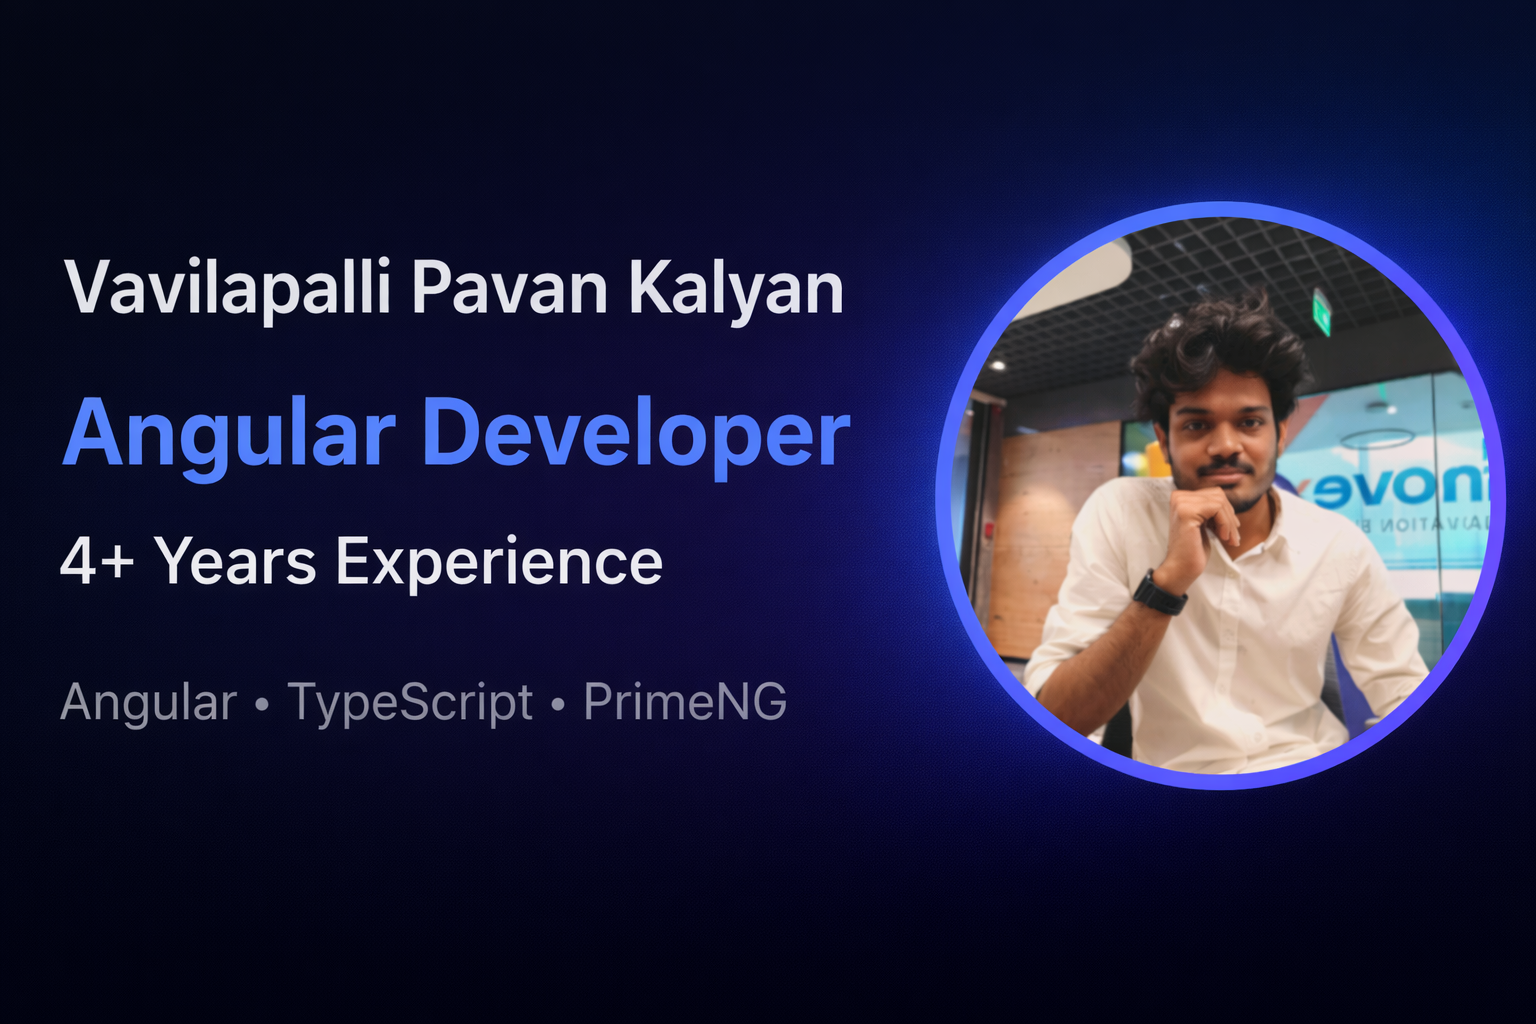
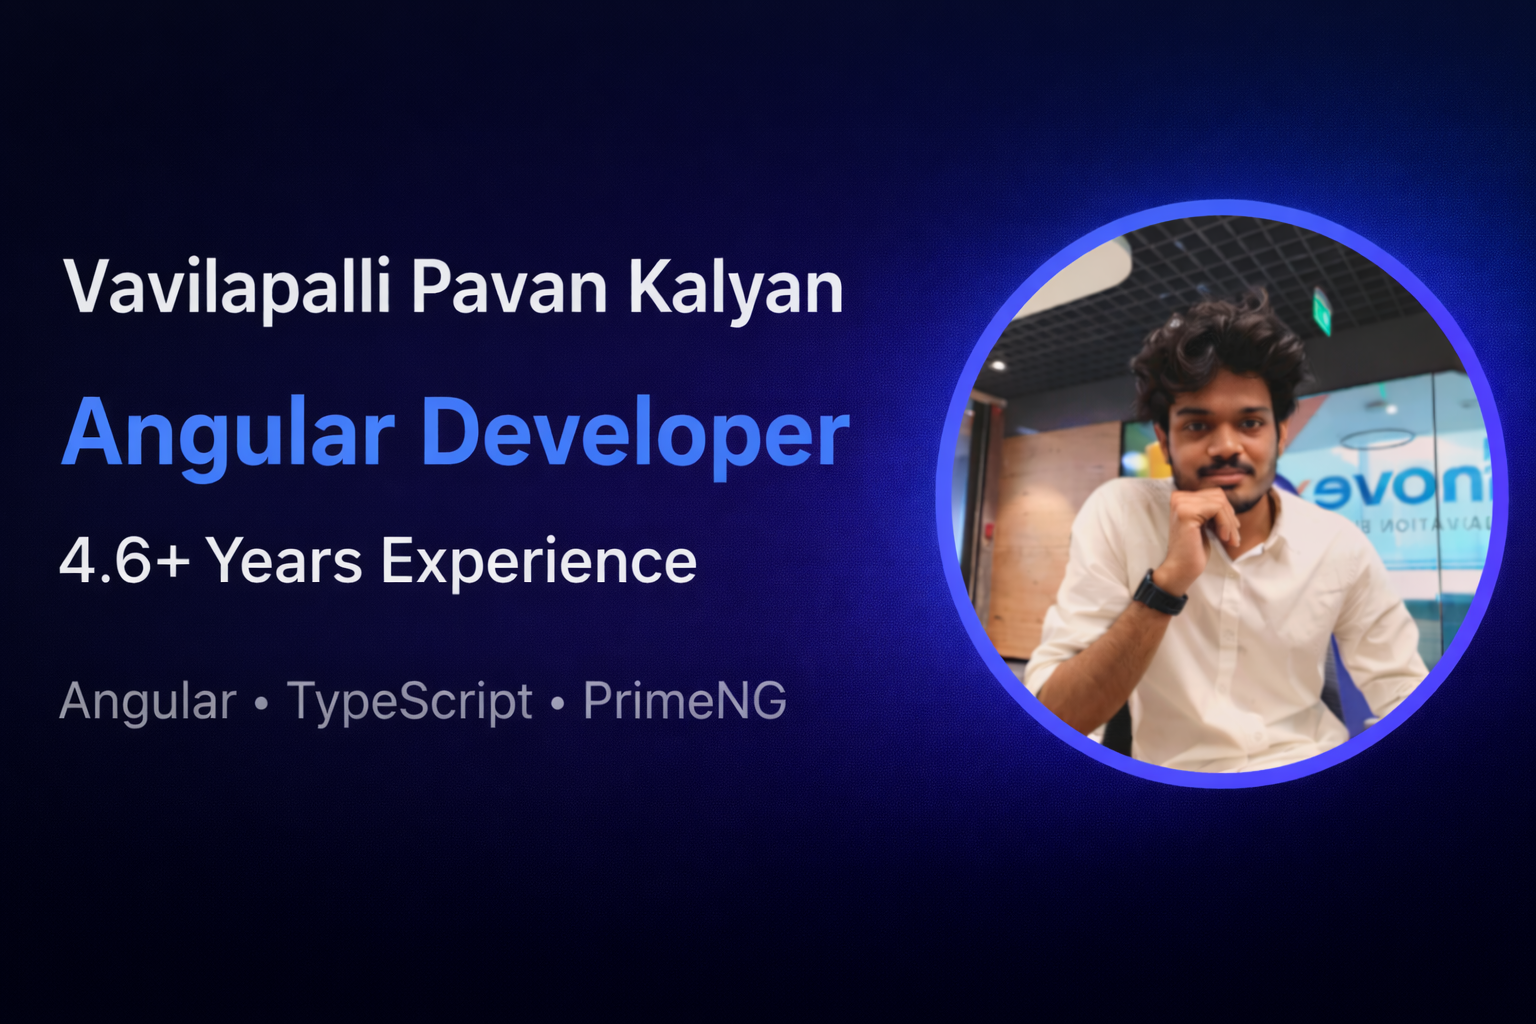
latest changes

diff --git a/index.html b/index.html
@@ -45,7 +45,7 @@
           <ul class="quick-info">
             <li><strong>Email:</strong> pavankalyanv539@gmail.com</li>
             <li><strong>Phone:</strong> +91 9100231739</li>
-            <li><strong>LinkedIn:</strong> <a href="https://www.linkedin.com/in/vavilapalli-pavankalyan-a8a8751b5"
+            <li><strong>LinkedIn:</strong> <a href="https://www.linkedin.com/in/pavankalyan-vavilapalli-a8a8751b5/"
                 target="_blank" rel="noopener">/in/vavilapalli-pavankalyan</a></li>
           </ul>
         </div>
